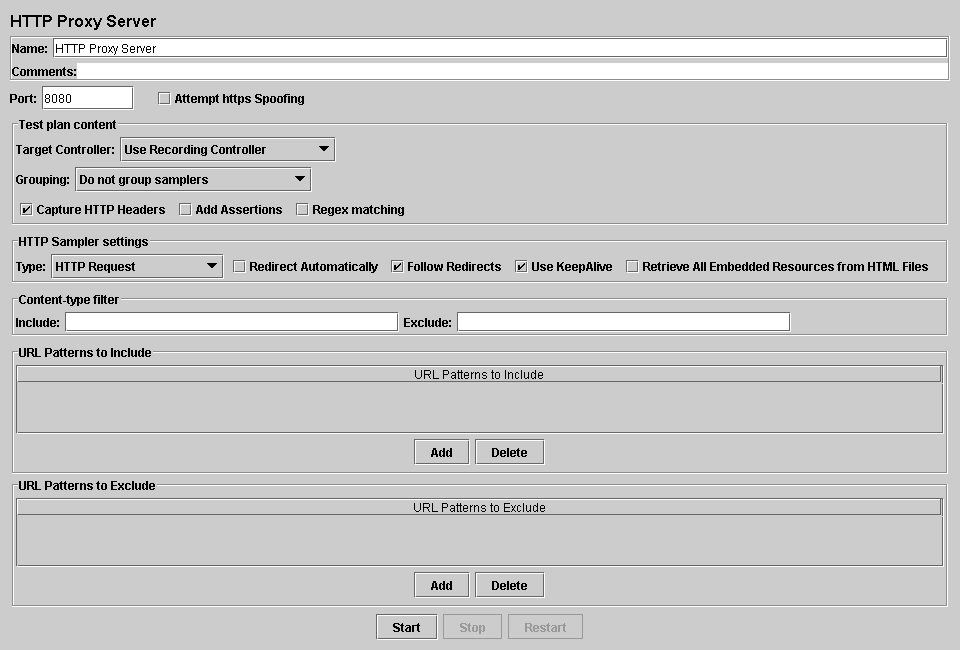
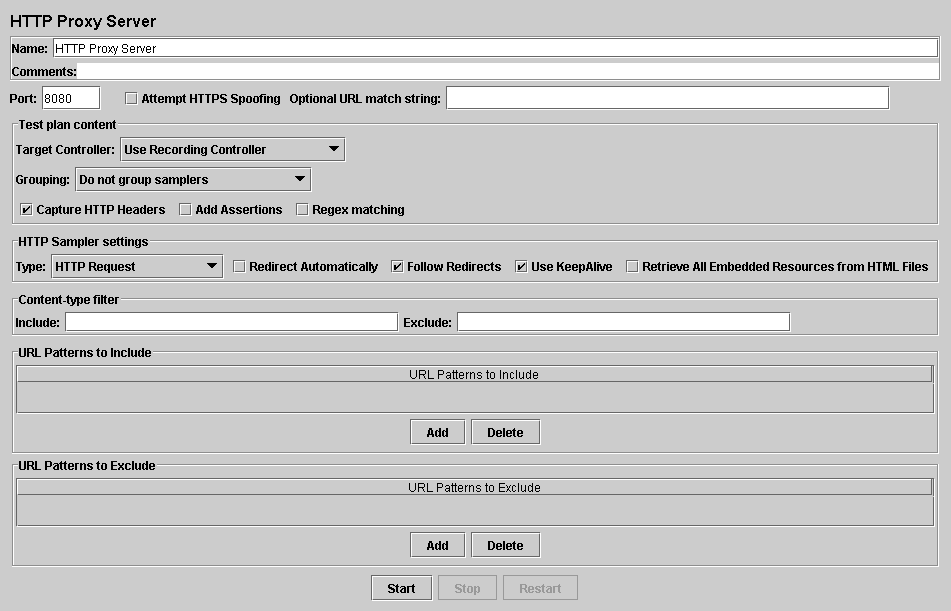
Proxy spoofing now drops the default HTTPS port (443) when converting https: links to http: Update Proxy documentation
git-svn-id: https://svn.apache.org/repos/asf/jakarta/jmeter/trunk@595978 13f79535-47bb-0310-9956-ffa450edef68

Former-commit-id: 6847666ca5ac1a3649a6b9dffff8e00450d6ae0e

Changed region(s): [[0.0, 0.0, 1.0, 0.6219], [0.0, 0.653, 1.0, 0.8085], [0.0305, 0.8396, 0.9758, 0.9951]]

diff --git a/src/protocol/http/org/apache/jmeter/protocol/http/proxy/Proxy.java b/src/protocol/http/org/apache/jmeter/protocol/http/proxy/Proxy.java
@@ -28,7 +28,6 @@ import java.net.UnknownHostException;
 import java.net.URL;
 import java.util.Map;
 
-import org.apache.commons.httpclient.HttpConstants;
 import org.apache.jmeter.protocol.http.control.HeaderManager;
 import org.apache.jmeter.protocol.http.parser.HTMLParseException;
 import org.apache.jmeter.protocol.http.sampler.HTTPSamplerBase;
@@ -175,14 +174,17 @@ public class Proxy extends Thread {
 			/* 
 			 * If we are trying to spoof https, change the protocol
 			 */
+			boolean forcedHTTP = false; // so we know when to revert
 			if (httpsSpoof) {
 				if (httpsSpoofMatch.length() > 0){
 					String url = request.getUrl();
 					if (url.matches(httpsSpoofMatch)){
-						sampler.setProtocol(HTTPConstants.PROTOCOL_HTTPS);						
+						sampler.setProtocol(HTTPConstants.PROTOCOL_HTTPS);
+						forcedHTTP = true;
 					}
 				} else {
 				    sampler.setProtocol(HTTPConstants.PROTOCOL_HTTPS);
+					forcedHTTP = true;
 				}
 			}
 			sampler.threadStarted(); // Needed for HTTPSampler2
@@ -190,12 +192,17 @@ public class Proxy extends Thread {
 			
 			/*
 			 * If we're dealing with text data, and if we're spoofing https, 
-			 * replace all occurences of "https:" with "http:" for the client. 
+			 * replace all occurences of "https://" with "http://" for the client.
+			 * TODO - also check the match string to restrict the changes further?
 			 */
-			if (httpsSpoof && SampleResult.TEXT.equals(result.getDataType()))
+			if (forcedHTTP && SampleResult.TEXT.equals(result.getDataType()))
 			{
-				String noHttpsResult = new String(result.getResponseData());
-				result.setResponseData(noHttpsResult.replaceAll("https:", "http:").getBytes());// TODO this could mangle the encoding
+				final String enc = result.getDataEncodingWithDefault();
+				String noHttpsResult = new String(result.getResponseData(),enc);
+				final String HTTPS_HOST = // match https://host[:port]/ and drop default port if present
+					"https://([^:/]+)(:"+HTTPConstants.DEFAULT_HTTPS_PORT_STRING+")?"; // $NON-NLS-1$ $NON-NLS-2$
+				noHttpsResult = noHttpsResult.replaceAll(HTTPS_HOST, "http://$1"); // $NON-NLS-1$
+				result.setResponseData(noHttpsResult.getBytes(enc));
 			}
 
             // Find the page encoding and possibly encodings for forms in the page
